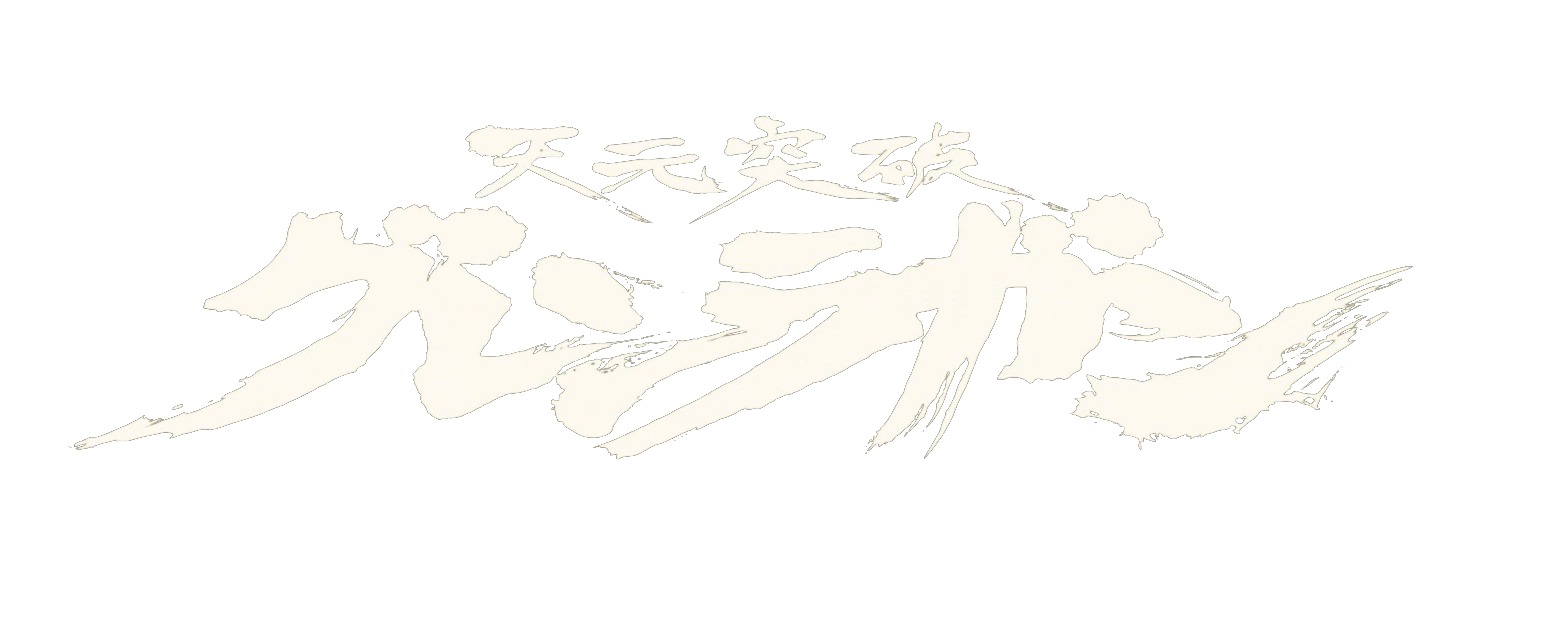
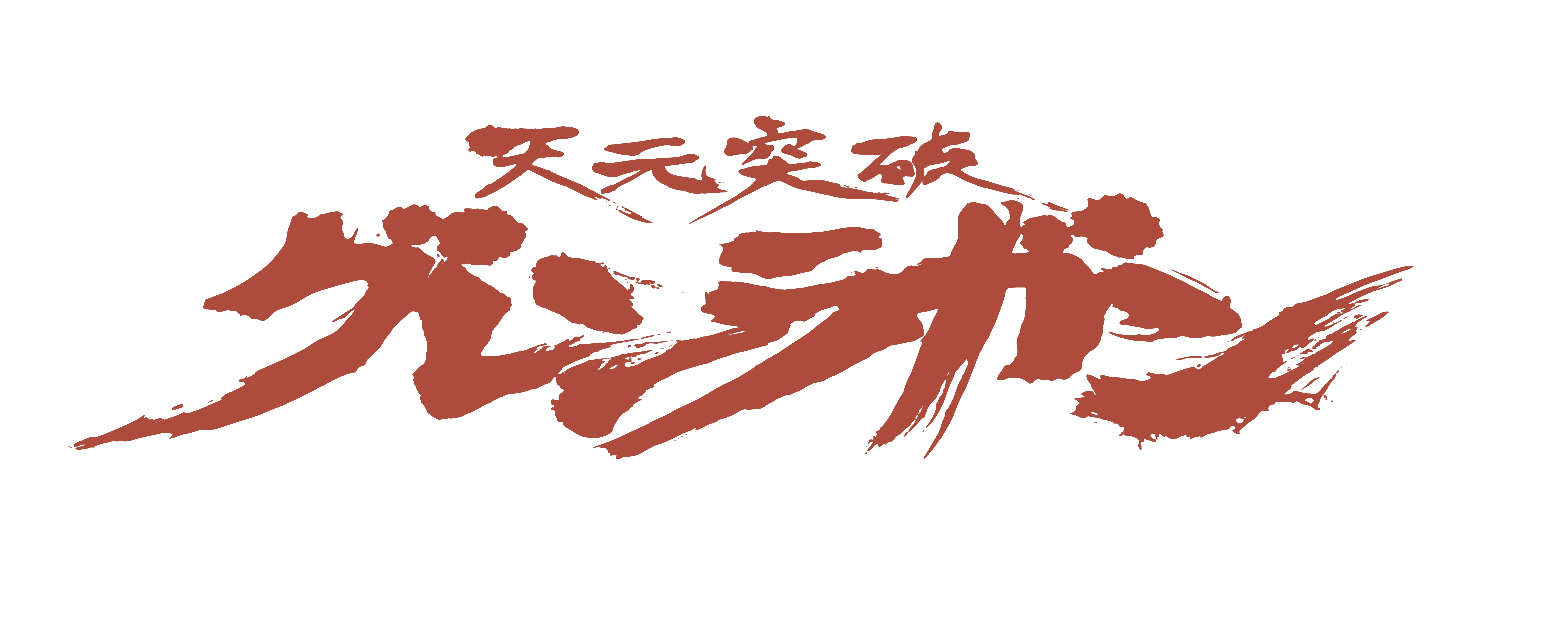
new structure

Changed region(s): [[0.0309, 0.1784, 0.9272, 0.7136], [0.4018, 0.3271, 0.4327, 0.3568]]

diff --git a/css/navbar.css b/css/navbar.css
@@ -1,0 +1,62 @@
+/* Custom Navbar Styling */
+.navbar {
+    background-color: #1e1e1e !important; /* Darker shade */
+    padding: 15px 20px;
+}
+
+/* Navbar brand text */
+.navbar-brand {
+    font-size: 1.5rem;
+    font-weight: bold;
+    color: #ad4c3c !important; /* Yellow text */
+}
+
+/* Navbar links */
+.navbar-nav .nav-link {
+    color: #fffffff1 !important; /* White text */
+    font-size: 1.2rem;
+    margin-right: 15px;
+    transition: color 0.3s ease-in-out;
+}
+
+/* Hover effect on links */
+.navbar-nav .nav-link:hover {
+    color: #ad4c3c !important; /* Yellow on hover */
+}
+
+/* Active link */
+.navbar-nav .nav-link.active {
+    color: #ad4c3c !important;
+    font-weight: bold;
+}
+
+/* Navbar toggler icon */
+.navbar-toggler {
+    border-color: #ffffff; /* White border */
+}
+
+.navbar-toggler-icon {
+    filter: invert(1); /* Makes it visible on dark backgrounds */
+}
+
+.navbar img {
+    margin-right: 20px; /* Adjust as needed */
+}
+
+/* Responsive adjustments */
+@media (max-width: 992px) {
+    .navbar {
+        text-align: center;
+    }
+
+    .navbar-collapse {
+        background: #2a2a2a; /* Background color when expanded */
+        padding: 10px;
+        border-radius: 5px;
+    }
+
+    .navbar-nav .nav-link {
+        display: block;
+        padding: 10px;
+    }
+}

diff --git a/css/banniere.css b/css/banniere.css
@@ -1,0 +1,15 @@
+.banner {
+  width: 100%; /* Full width */
+  height: 400px; /* Adjust height as needed */
+  background-color: #fff6ebe7; 
+  display: flex;
+  justify-content: center; /* Center the image horizontally */
+  align-items: center; /* Center the image vertically */
+  padding: 10px;
+}
+
+.banner img {
+  max-height: 100%; /* Keep image inside banner */
+  max-width: 100%; /* Prevent overflow */
+  object-fit: contain; /* Ensures the image fits well */
+}

diff --git a/css/index.css b/css/index.css
@@ -1,20 +1,5 @@
-:root {
-    --loading-grey: #ededed;
-  }
-  
-  body {
-    color : #ffffff;
+    body {
     background-color:#2e2929;
     font-family: Helvetica;
     text-align: center;
 }
-
- th {
-    color : #ffffff;
-    padding: 15px;
-  }
-
- td {
-    color : #ffffff;
-    padding: 15px;
-  }

diff --git a/css/list.css b/css/list.css
@@ -1,0 +1,10 @@
+
+th {
+    color : #ffffff;
+    padding: 15px;
+  }
+
+ td {
+    color : #ffffff;
+    padding: 15px;
+  }

diff --git a/navbar.php b/navbar.php
@@ -1,0 +1,50 @@
+<!DOCTYPE html>
+<html lang="en">
+<head>
+    <meta charset="UTF-8">
+    <meta name="viewport" content="width=device-width, initial-scale=1">
+    <title>My Website</title>
+    
+    <!-- Bootstrap CSS -->
+    <link href="https://cdn.jsdelivr.net/npm/bootstrap@5.3.0-alpha1/dist/css/bootstrap.min.css" rel="stylesheet">
+    
+    <!-- Custom CSS -->
+    <link rel="stylesheet" type="text/css" href="css/navbar.css">
+</head>
+<body>
+
+    <!-- Header with Navbar -->
+    <header>
+        <nav class="navbar navbar-expand-lg">
+            <div class="container-fluid">
+                <!-- Logo -->
+                <img src="images/tete.png" alt="Gurren" height="60" width="60" class="me-3">
+                
+                <!-- Navbar Toggler -->
+                <button class="navbar-toggler" type="button" data-bs-toggle="collapse" data-bs-target="#navbarNav"
+                    aria-controls="navbarNav" aria-expanded="false" aria-label="Toggle navigation">
+                    <span class="navbar-toggler-icon"></span>
+                </button>
+
+                <!-- Navbar Links -->
+                <div class="collapse navbar-collapse" id="navbarNav">
+                    <ul class="navbar-nav">
+                        <li class="nav-item">
+                            <a class="nav-link" href="index.php">Accueil</a>
+                        </li>
+                        <li class="nav-item">
+                            <a class="nav-link" href="list.php">Liste des épisodes</a>
+                        </li>
+                        <li class="nav-item">
+                            <a class="nav-link" href="classement.php">Classement</a>
+                        </li>
+                    </ul>
+                </div>
+            </div>
+        </nav>
+    </header>
+    <!-- Bootstrap JS -->
+    <script src="https://cdn.jsdelivr.net/npm/bootstrap@5.3.0-alpha1/dist/js/bootstrap.bundle.min.js"></script>
+
+</body>
+</html>

diff --git a/index.php b/index.php
@@ -1,0 +1,21 @@
+<!DOCTYPE html>
+<html lang="en">
+  <head>
+    <meta charset="UTF-8">
+    <title>Page Title</title>
+    <meta name="viewport" content="width=device-width, initial-scale=1">
+    <!-- Bootstrap CSS -->
+    <!--<link href="https://cdn.jsdelivr.net/npm/bootstrap@5.3.0-alpha1/dist/css/bootstrap.min.css" rel="stylesheet">-->
+    <link rel="stylesheet" type="text/css" href="css/index.css" />
+    <style>
+    </style>
+    <?php include 'navbar.php'; ?>
+    <?php include 'banniere.php'; ?>
+</head>
+  
+  <body>
+    <script src="https://cdn.jsdelivr.net/npm/@popperjs/core@2.11.6/dist/umd/popper.min.js"></script>
+    <script src="https://cdn.jsdelivr.net/npm/bootstrap@5.3.0-alpha1/dist/js/bootstrap.min.js"></script>
+    <?php include 'accueil.php'; ?>
+    </body>
+</html>

diff --git a/list.php b/list.php
@@ -5,9 +5,13 @@
     <title>Page Title</title>
     <meta name="viewport" content="width=device-width, initial-scale=1">
     <!-- Bootstrap CSS -->
-    <link href="https://cdn.jsdelivr.net/npm/bootstrap@5.3.0-alpha1/dist/css/bootstrap.min.css" rel="stylesheet">
-    <link rel="stylesheet" type="text/css" href="css/index.css" /> 
-  </head>
+    <!--<link href="https://cdn.jsdelivr.net/npm/bootstrap@5.3.0-alpha1/dist/css/bootstrap.min.css" rel="stylesheet">-->
+    <link rel="stylesheet" type="text/css" href="css/index.css" />
+    <style>
+    </style>
+    <?php include 'navbar.php'; ?>
+    <?php include 'banniere.php'; ?>
+</head>
   
   <body>
     <div class="container text-center">

diff --git a/accueil.php b/accueil.php
@@ -1,13 +1,15 @@
 <!DOCTYPE html>
-<html lang="fr">
+<html lang="en">
   <head>
     <meta charset="UTF-8">
-    <title>Classement Gurren Laggann</title>
+    <title>Page Title</title>
     <meta name="viewport" content="width=device-width, initial-scale=1">
+    <!-- Bootstrap CSS -->
     <link href="https://cdn.jsdelivr.net/npm/bootstrap@5.3.0-alpha1/dist/css/bootstrap.min.css" rel="stylesheet">
-    <link rel="stylesheet" type="text/css" href="css/index.css" /> 
-  </head>
-
-  <body></body>
+    <link rel="stylesheet" type="text/css" href="css/index.css" />
+</head>
+  
+<body>
+</body>
 
 </html>

diff --git a/classement.php b/classement.php
@@ -1,0 +1,18 @@
+<!DOCTYPE html>
+<html lang="en">
+  <head>
+    <meta charset="UTF-8">
+    <title>Page Title</title>
+    <meta name="viewport" content="width=device-width, initial-scale=1">
+    <!-- Bootstrap CSS -->
+    <!--<link href="https://cdn.jsdelivr.net/npm/bootstrap@5.3.0-alpha1/dist/css/bootstrap.min.css" rel="stylesheet">-->
+    <link rel="stylesheet" type="text/css" href="css/index.css" />
+    <style>
+    </style>
+    <?php include 'navbar.php'; ?>
+    <?php include 'banniere.php'; ?>
+</head>
+
+  <body></body>
+
+</html>

diff --git a/banniere.php b/banniere.php
@@ -1,0 +1,18 @@
+<!DOCTYPE html>
+<html lang="en">
+  <head>
+    <meta charset="UTF-8">
+    <title>Page Title</title>
+    <meta name="viewport" content="width=device-width, initial-scale=1">
+    <!-- Bootstrap CSS -->
+    <link href="https://cdn.jsdelivr.net/npm/bootstrap@5.3.0-alpha1/dist/css/bootstrap.min.css" rel="stylesheet">
+    <link rel="stylesheet" type="text/css" href="css/banniere.css" />
+</head>
+  
+<body>
+    <div class="banner">
+        <img src="images/gurren accueil.png" alt="Gurren">
+    </div>
+</body>
+
+</html>
